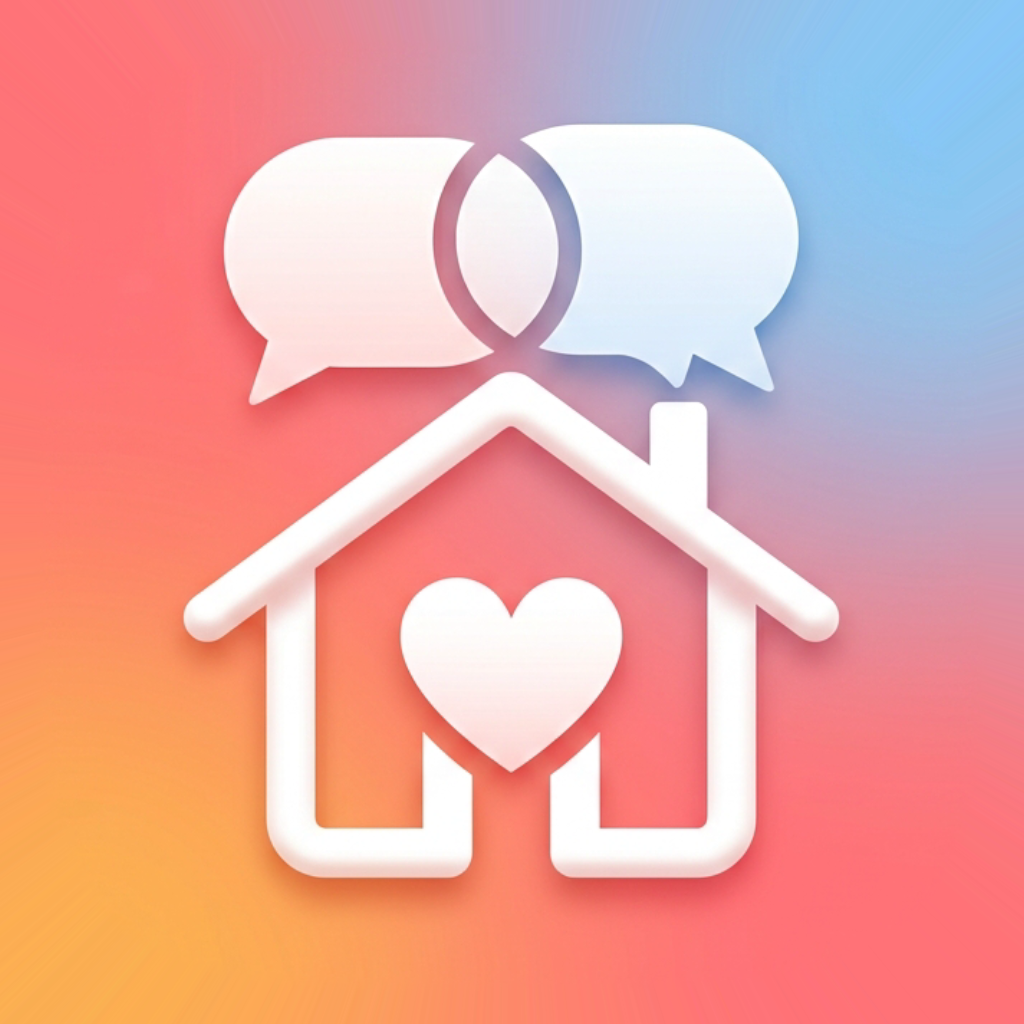
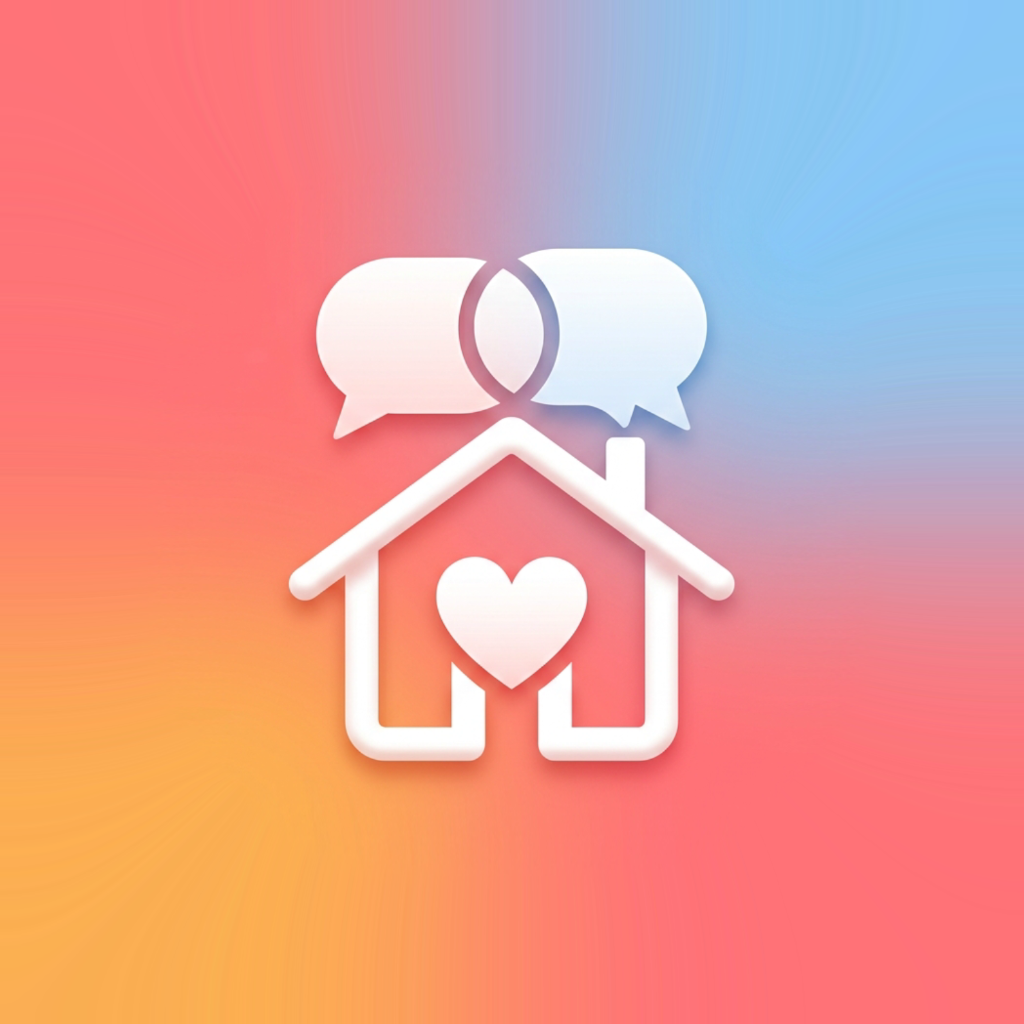
fix: 안드로이드 어댑티브 아이콘 Safe Zone 여백 조정 및 시스템 폰트 배율 고정

Changed region(s): [[0.1562, 0.0938, 0.8438, 0.9062]]

diff --git a/utils/setupFontScalingLock.ts b/utils/setupFontScalingLock.ts
@@ -1,0 +1,109 @@
+/**
+ * 전역 시스템 폰트 배율 고정 유틸리티 (allowFontScaling: false)
+ *
+ * 안드로이드/iOS 기기 설정에서 시스템 글자 크기를 '크게 / 아주 크게(130%~200%)'로 설정하더라도
+ * 앱 내 카드, 탭바, 버튼, 16P 포토북 A5 조판 캔버스가 깨지지 않도록
+ * 모든 <Text> 및 <TextInput>의 기본 allowFontScaling을 false로 고정합니다.
+ *
+ * React 19 + React Native 0.86 환경에서는 함수형 컴포넌트의 defaultProps가 무시되므로
+ * JSX Runtime(jsx, jsxs, jsxDEV) 및 React.createElement 레벨에서 함께 주입합니다.
+ */
+
+import React from 'react';
+import { Text, TextInput } from 'react-native';
+
+// CommonJS require로 jsx-runtime 원본 모듈 객체를 직접 참조하여 다른 컴포넌트 로드 전에 패치
+const JsxRuntime: any = require('react/jsx-runtime');
+let JsxDevRuntime: any = null;
+try {
+  JsxDevRuntime = require('react/jsx-dev-runtime');
+} catch (_) {}
+
+function isTextOrInputType(type: any): boolean {
+  return (
+    type === Text ||
+    type === TextInput ||
+    Boolean(type && (type.displayName === 'Text' || type.displayName === 'TextInput'))
+  );
+}
+
+function injectNoFontScaling(props: any): any {
+  if (!props || typeof props !== 'object') {
+    return { allowFontScaling: false };
+  }
+  if (props.allowFontScaling === undefined) {
+    return { ...props, allowFontScaling: false };
+  }
+  return props;
+}
+
+export function setupFontScalingLock(): void {
+  if (Text) {
+    (Text as any).defaultProps = {
+      ...((Text as any).defaultProps || {}),
+      allowFontScaling: false,
+    };
+  }
+  if (TextInput) {
+    (TextInput as any).defaultProps = {
+      ...((TextInput as any).defaultProps || {}),
+      allowFontScaling: false,
+    };
+  }
+
+  try {
+    const origCreateElement = React.createElement as any;
+    if (origCreateElement && !origCreateElement.__famlinkPatched) {
+      const patchedCreateElement: any = function (
+        this: any,
+        type: any,
+        config: any,
+        ...children: any[]
+      ) {
+        const nextConfig = isTextOrInputType(type) ? injectNoFontScaling(config) : config;
+        return origCreateElement.call(this, type, nextConfig, ...children);
+      };
+      patchedCreateElement.__famlinkPatched = true;
+      (React as any).createElement = patchedCreateElement;
+    }
+
+    if (JsxRuntime && typeof JsxRuntime.jsx === 'function' && !JsxRuntime.jsx.__famlinkPatched) {
+      const origJsx = JsxRuntime.jsx;
+      const origJsxs = JsxRuntime.jsxs || origJsx;
+      const patchedJsx: any = function (type: any, config: any, maybeKey: any) {
+        const nextConfig = isTextOrInputType(type) ? injectNoFontScaling(config) : config;
+        return origJsx(type, nextConfig, maybeKey);
+      };
+      const patchedJsxs: any = function (type: any, config: any, maybeKey: any) {
+        const nextConfig = isTextOrInputType(type) ? injectNoFontScaling(config) : config;
+        return origJsxs(type, nextConfig, maybeKey);
+      };
+      patchedJsx.__famlinkPatched = true;
+      JsxRuntime.jsx = patchedJsx;
+      JsxRuntime.jsxs = patchedJsxs;
+    }
+
+    if (
+      JsxDevRuntime &&
+      typeof JsxDevRuntime.jsxDEV === 'function' &&
+      !JsxDevRuntime.jsxDEV.__famlinkPatched
+    ) {
+      const origJsxDEV = JsxDevRuntime.jsxDEV;
+      const patchedJsxDEV: any = function (
+        type: any,
+        config: any,
+        maybeKey: any,
+        isStaticChildren: any,
+        source: any,
+        self: any
+      ) {
+        const nextConfig = isTextOrInputType(type) ? injectNoFontScaling(config) : config;
+        return origJsxDEV(type, nextConfig, maybeKey, isStaticChildren, source, self);
+      };
+      patchedJsxDEV.__famlinkPatched = true;
+      JsxDevRuntime.jsxDEV = patchedJsxDEV;
+    }
+  } catch (_) {}
+}
+
+setupFontScalingLock();

diff --git a/index.js b/index.js
@@ -1,3 +1,4 @@
+import './utils/setupFontScalingLock';
 import { registerRootComponent } from 'expo';
 import { Platform, Alert } from 'react-native';
 

diff --git a/App.tsx b/App.tsx
@@ -1,3 +1,4 @@
+import './utils/setupFontScalingLock';
 import React, { useState, useEffect, useRef } from 'react';
 import {
   StyleSheet,
